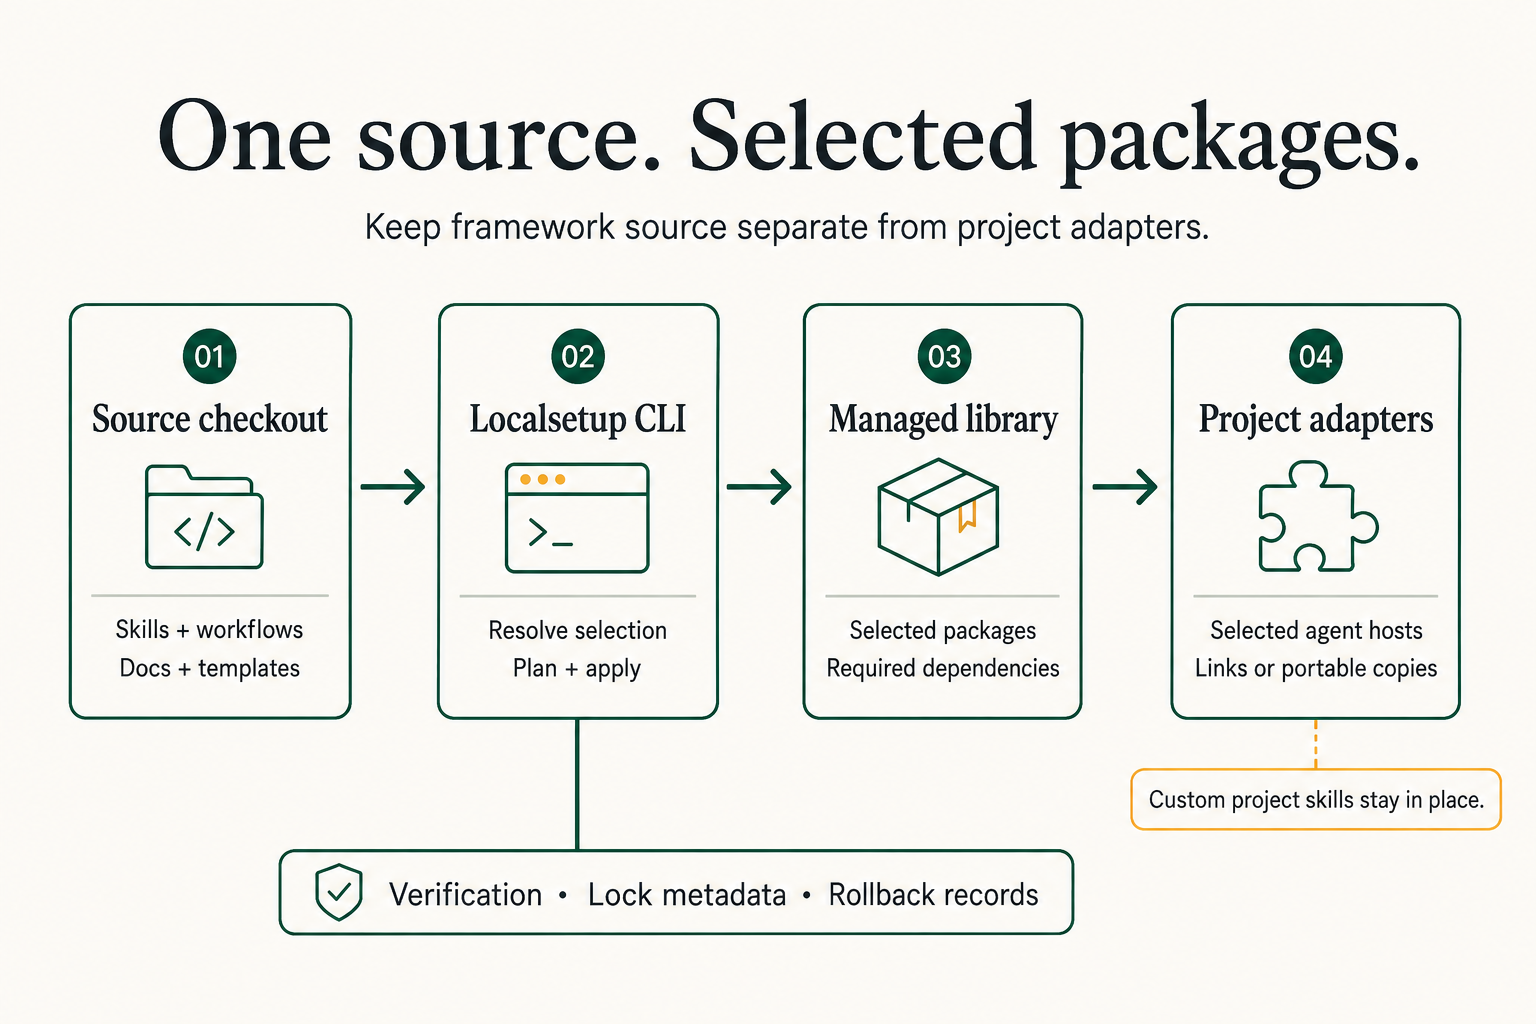
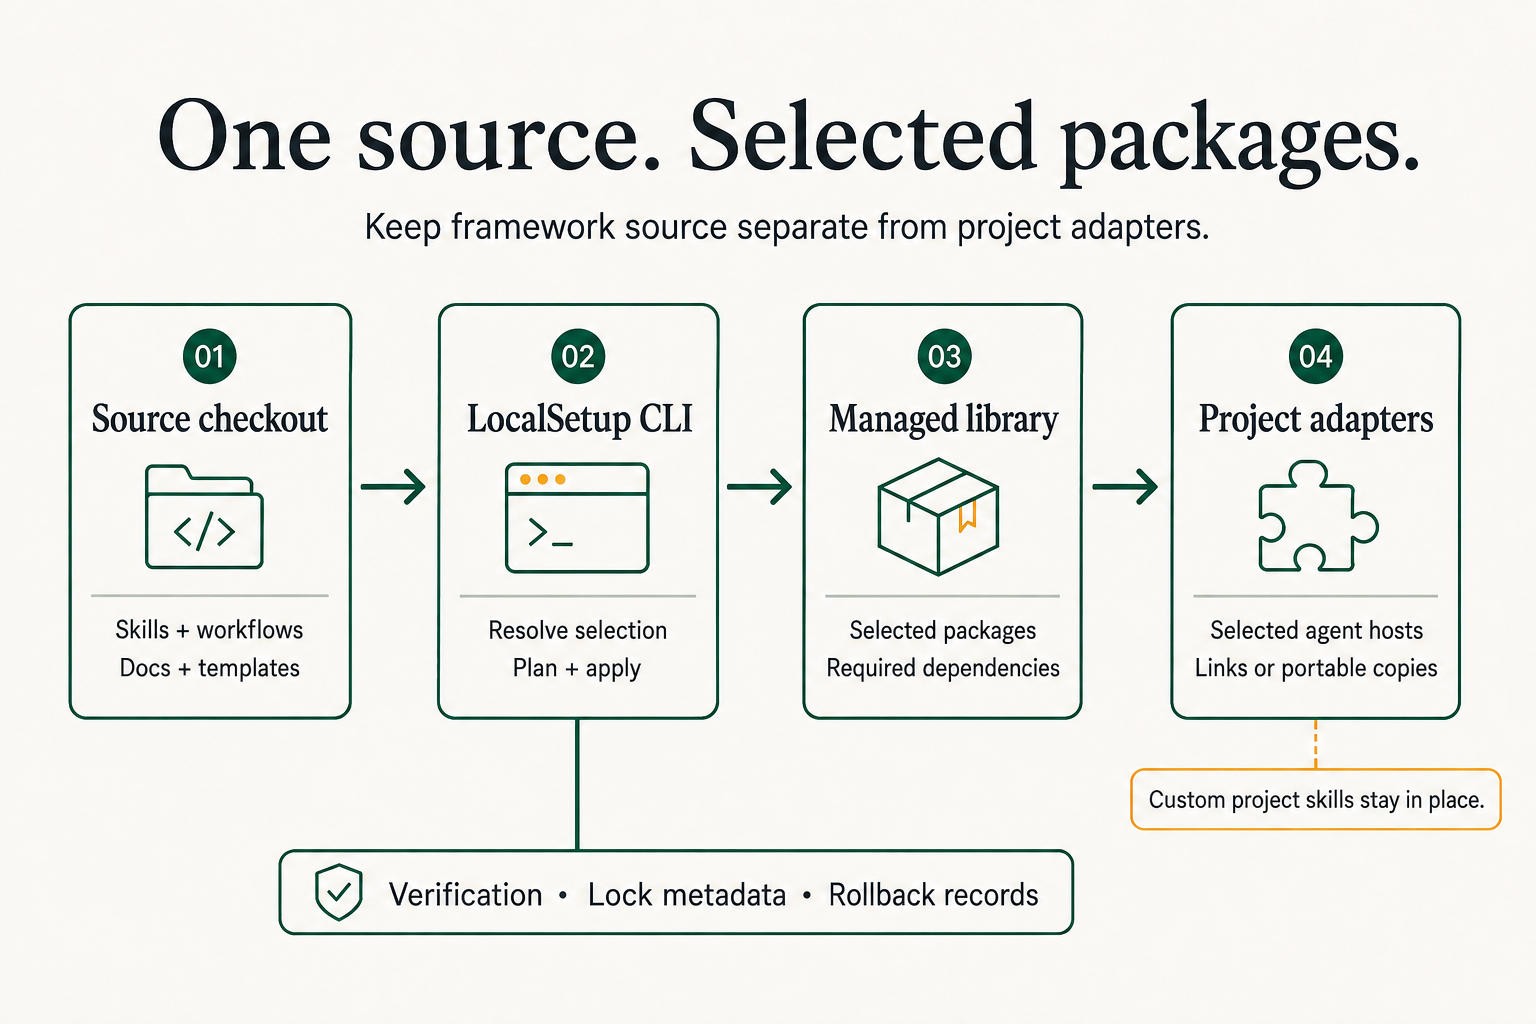
fix: correct embedded product branding in visual assets
Release-Slice: branding-visuals

diff --git a/ls/docs/BRANDING.md b/ls/docs/BRANDING.md
@@ -98,8 +98,8 @@ nonvisual binary may have an exact `binary_reviews` entry with `path`, `sha256`
 and a nonempty classification `reason`. Changing or removing that binary makes
 the review stale. Do not classify rendered images as nonvisual binary data.
 
-The initial policy intentionally contains no accepted exceptions or visual
-reviews. Repository-wide branding compliance remains unproven until the text,
+The policy records hash-bound visual reviews of the current asset inventory.
+Repository-wide branding compliance remains unproven until the text,
 generated output, installed runtime, compatibility, transport, artifact and visual
 checks all pass. The validator supports that evidence; it does not substitute
 for installed-artifact and visual acceptance.
@@ -122,3 +122,21 @@ separate generated-document receipt required by the publishing workflow:
 uv run --locked python ls/tools/generate_docs_artifacts.py --repo-root .
 uv run --locked python ls/tools/localsetup.py --source-root . generate-docs
 ```
+
+## Current visual assets
+
+The four PNG files in `assets/` are the maintained raster sources; this checkout
+contains no editable vector or layered originals. `assets/README.md` is a derived
+inventory maintained by the documentation alignment tools. The acceptance hashes
+and accessibility evidence live in `ls/config/branding.json`.
+
+| Asset | Embedded product text | Current use |
+|---|---|---|
+| `localsetup-readme-hero.png` | LocalSetup | README introduction |
+| `localsetup-architecture.png` | LocalSetup CLI | README and framework architecture guidance |
+| `localsetup-install-lifecycle.png` | None | Installation and rollback guidance |
+| `localsetup-logo.png` | None | Historical release mark |
+
+Keep asset filenames stable. Review a changed raster in full, including small
+labels, and check each current consumer's alt text. The historical release note
+remains immutable; its descriptive alt text is retained with the release record.
